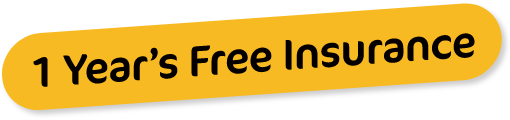
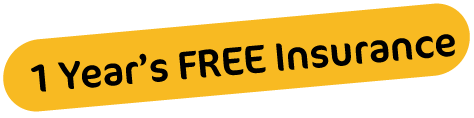
DIG-6135 changed text of free insurance label

Changed region(s): [[0.0295, 0.0508, 1.0, 0.9661], [0.0, 0.0254, 0.9451, 0.7119], [0.0, 0.7627, 0.0295, 0.8644]]

diff --git a/src/components/FreeInsuranceLabel/FreeInsuranceLabel.tsx b/src/components/FreeInsuranceLabel/FreeInsuranceLabel.tsx
@@ -6,7 +6,7 @@ const Text = dynamic(() => import('core/atoms/text'));
 const FreeInsuranceLabel = () => {
   return (
     <div className="yellow-tag -black">
-      <Text tag="span">1 Year’s Free Car Insurance</Text>
+      <Text tag="span">1 Year’s FREE Car Insurance</Text>
       <CheckmarkSharpIcon />
     </div>
   );
